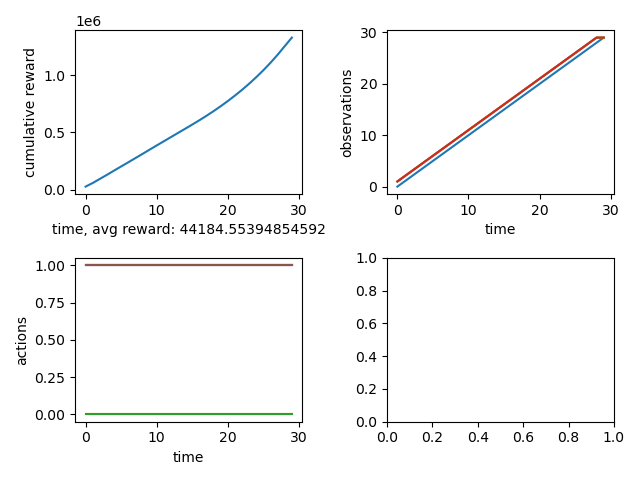
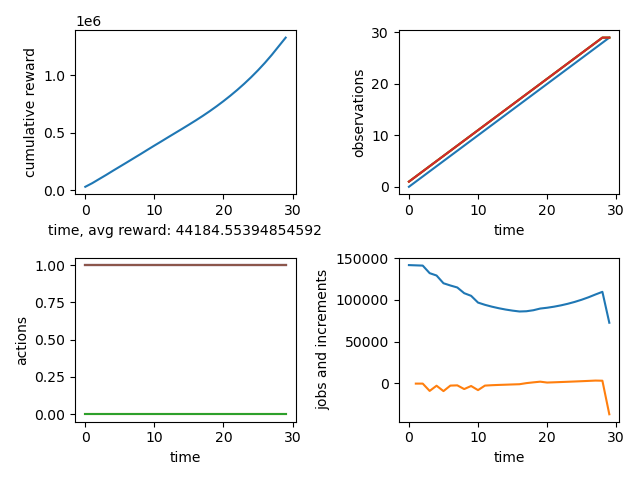
Added subplot for jobs and increments in jobs.

diff --git a/environment/reference_environment/env.py b/environment/reference_environment/env.py
@@ -226,7 +226,20 @@ def plot_episode(state, fname):
     plt.xlabel("time")
     plt.ylabel("actions")
     plt.tight_layout()
-
+    
+    # jobs
+    plt.subplot(224)
+    plt.plot(np.vstack((np.array(state.weightedRewardComponents_all)[:,4],np.hstack((np.nan,np.diff(np.array(state.weightedRewardComponents_all)[:,4]))))).T)
+    plt.xlabel("time")
+    plt.ylabel("jobs and increments")
+    plt.tight_layout()
+    
+    # # increments in jobs
+    # plt.subplot(235)
+    # plt.plot(np.diff(np.array(state.weightedRewardComponents_all)[:,4]))
+    # plt.xlabel("time")
+    # plt.ylabel("increments in jobs")
+    # plt.tight_layout()
 
     # agent predictions
     #plt.subplot(224)
